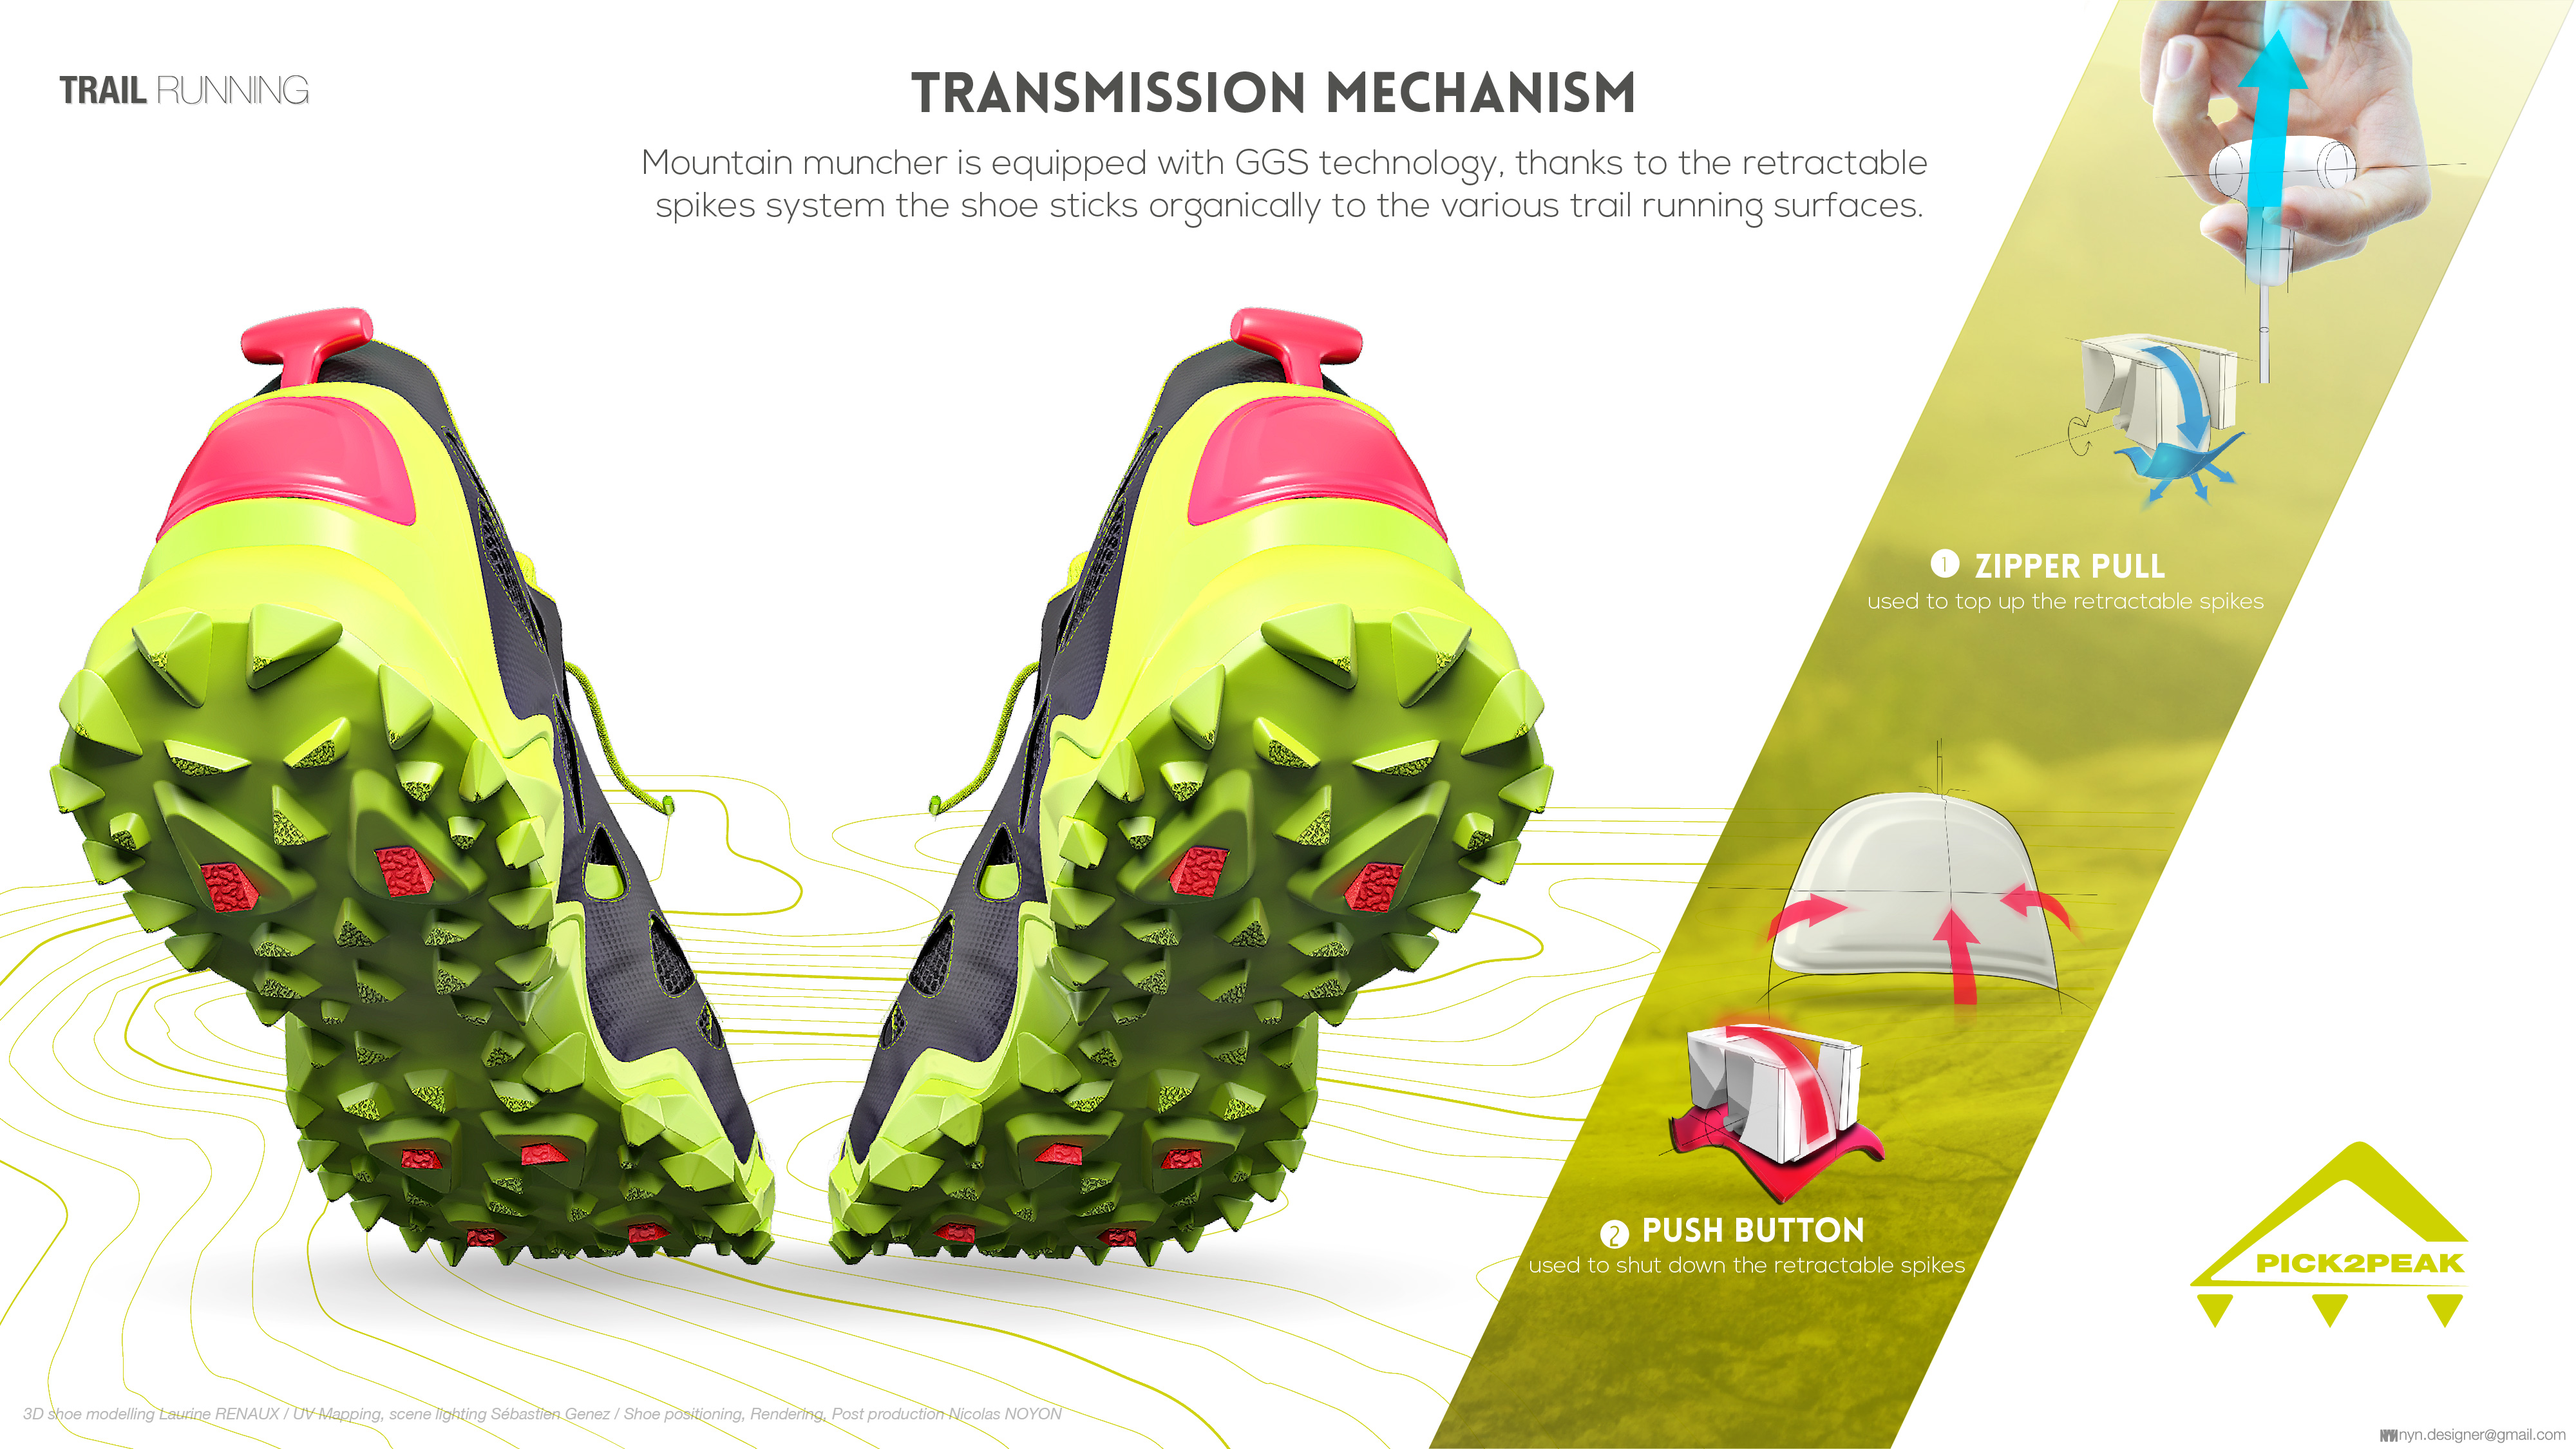
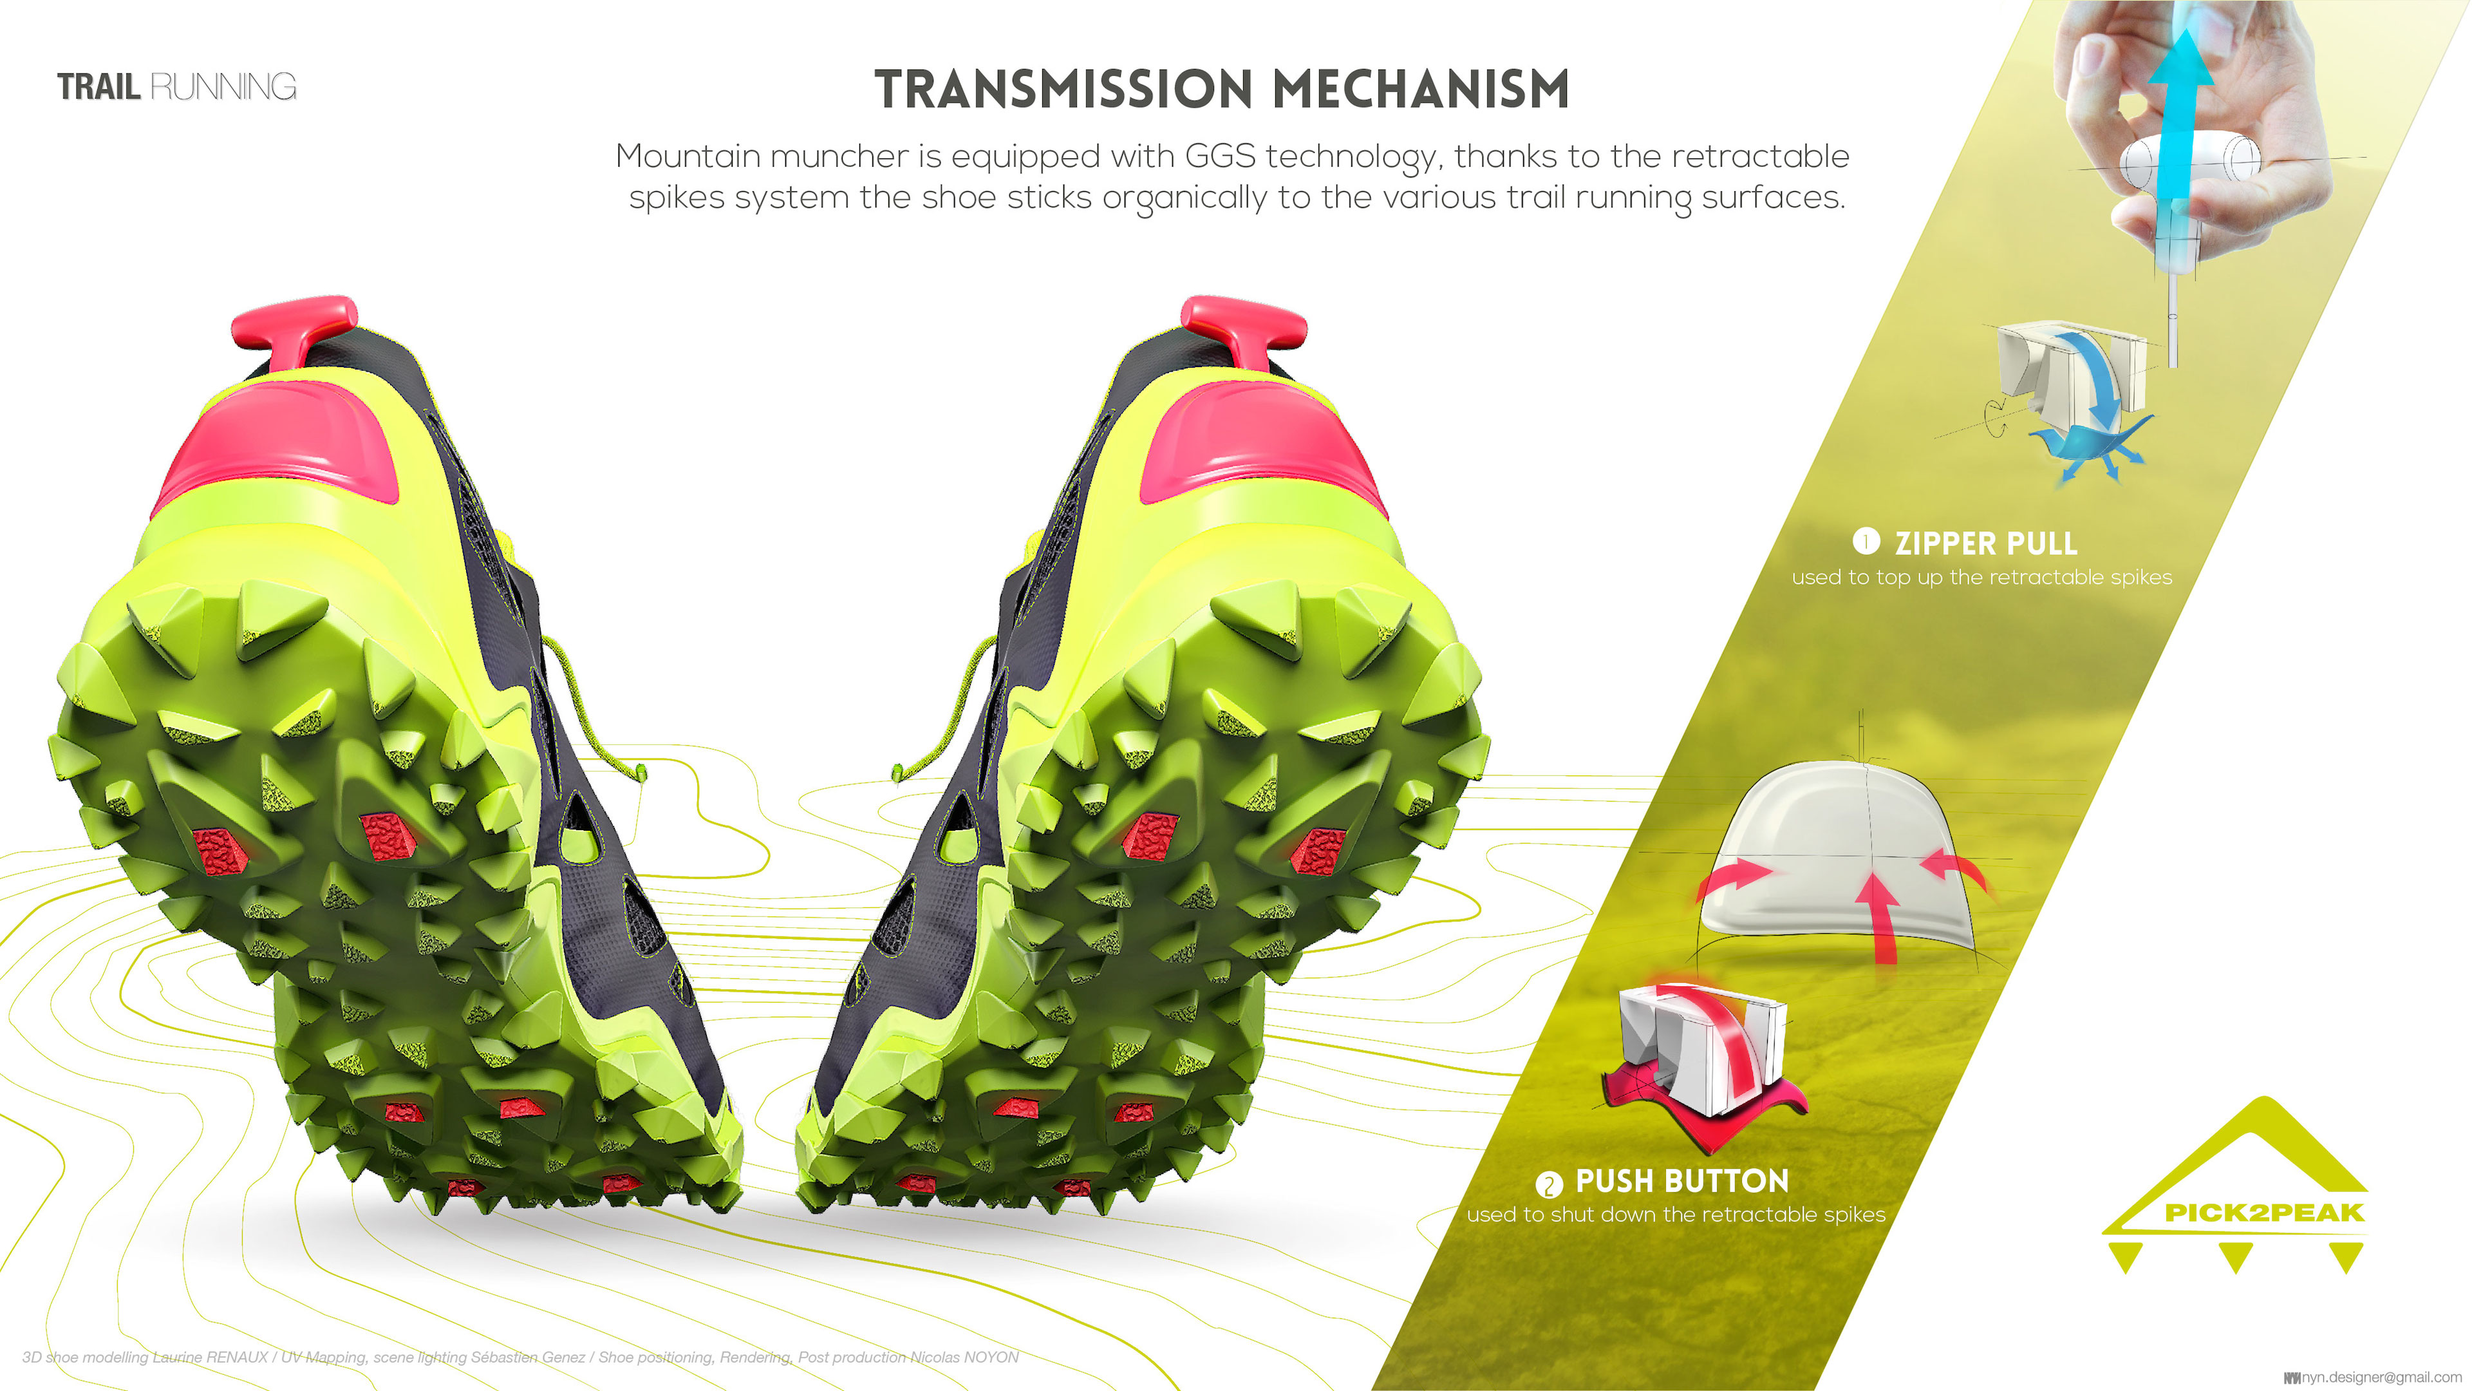
v2
lighter pics

diff --git a/js/script.js b/js/script.js
@@ -114,6 +114,109 @@ $('#gallery-icon-3,#gallery-link-3').on('click', function() {
 });
 
 
+
+$('#gallery-icon-5,#gallery-link-5').on('click', function() {
+ 
+    $(this).lightGallery({
+        dynamic: true,
+        download: false,
+        counter: false,
+        dynamicEl: [{
+            'src': './img/proj5/1.jpg',
+            
+            }, {
+            'src': './img/proj5/2.jpg',
+            
+            }, {
+            'src': './img/proj5/3.jpg',
+            
+            }, {
+            'src': './img/proj5/4.jpg',
+            
+            }, {
+            'src': './img/proj5/5.jpg',
+            
+            }, {
+            'src': './img/proj5/6.jpg',
+            
+            }, {
+            'src': './img/proj5/7.jpg',
+            
+            }, {
+            'src': './img/proj5/8.jpg',
+            
+            }, {
+            'src': './img/proj5/9.jpg',
+            
+            }, {
+            'src': './img/proj5/10.jpg',
+            
+            }]
+    })
+ 
+});
+
+$('#gallery-icon-6,#gallery-link-6').on('click', function() {
+ 
+    $(this).lightGallery({
+        dynamic: true,
+        download: false,
+        counter: false,
+        dynamicEl: [{
+            'src': './img/proj6/1.jpg',
+            
+            }, {
+            'src': './img/proj6/2.jpg',
+            
+            }, {
+            'src': './img/proj6/3.jpg',
+            
+            }, {
+            'src': './img/proj6/4.jpg',
+            
+            }, {
+            'src': './img/proj6/5.jpg',
+            
+            }]
+    })
+ 
+});
+
+
+$('#gallery-icon-7,#gallery-link-7').on('click', function() {
+ 
+    $(this).lightGallery({
+        dynamic: true,
+        download: false,
+        counter: false,
+        dynamicEl: [{
+            'src': './img/proj7/1.jpg',
+            
+            }, {
+            'src': './img/proj7/2.jpg',
+            
+            }, {
+            'src': './img/proj7/3.jpg',
+            
+            }, {
+            'src': './img/proj7/4.jpg',
+            
+            }, {
+            'src': './img/proj7/5.jpg',
+            
+            }, {
+            'src': './img/proj7/6.jpg',
+            
+            }, {
+            'src': './img/proj7/7.jpg',
+            
+            }]
+    })
+ 
+});
+
+
+
 });
 
 

diff --git a/index.html b/index.html
@@ -166,14 +166,15 @@
 
 	    </div>
 	</div>
-<!--
+
 <div class="proj proj4 row">
 	    <div class="col col-5">
 	    	<div class="description left">
 	    		<div class="titre">K-PLAY</div>
 	    		<div class="type">Jacket</div>
-	    		<div class="intro">For the K-Play project products, as a memeber of tje design team I acted as the interface between the sample room and the production line.</div>
-	    		<div class="more"><a id="gallery-link-4" href="#"><i class="fa fa-plus" aria-hidden="true"></i> See more</a></div>
+	    		<div class="intro">For the K-Play project products, as a member of the design team I acted as the interface between the sample room and the production line.</div>
+
+	    		<div class="more"><a id="gallery-link-4" href="#"><i class="fa fa-plus" aria-hidden="true"></i> Coming Soon</a></div>
 	    	</div>
 
 	    </div>
@@ -236,13 +237,13 @@
 	    	<div class="description right">
 	    		<div class="titre">NIKE CITYZEN</div>
 	    		<div class="type">Shoes</div>
-	    		<div class="intro">Another short project to enhance my 3D modelling skills and rendering.</div>
+	    		<div class="intro">Another short project to enhance my 3D modelling and rendering skills.</div>
 	    		<div class="more"><a id="gallery-link-7" href="#"><i class="fa fa-plus" aria-hidden="true"></i> See more</a></div>
 	    	</div>
 
 	    </div>
 	</div>
-
+<!--
 <div class="proj proj8 row">
 	    <div class="col col-5">
 	    	<div class="description left">
@@ -304,7 +305,7 @@
 	<div class="outro">
 		<div>
 			Thanks for your visit. You like my work? Share it on <a target="_blank" href="https://www.linkedin.com/shareArticle?mini=true&url=http://nyndesignlab.com.com&title=NYN%20DESIGN%20LAB
-&summary=My%20product%20design%20portfolio&source=NYNDESIGNLAB.COM">Linkedin</a>. Want to make your project come true? <a href="#ex1" rel="modal:open">Contact me</a>.	
+&summary=My%20product%20design%20portfolio&source=NYNDESIGNLAB.COM">Linkedin</a>. To make your project come true <a href="#ex1" rel="modal:open">Contact me</a>.	
 		</div>
 		<div class="newsletter">
 			<div class="see-more">More projects coming soon, to not miss them subscribe to my newsletter :</div>
